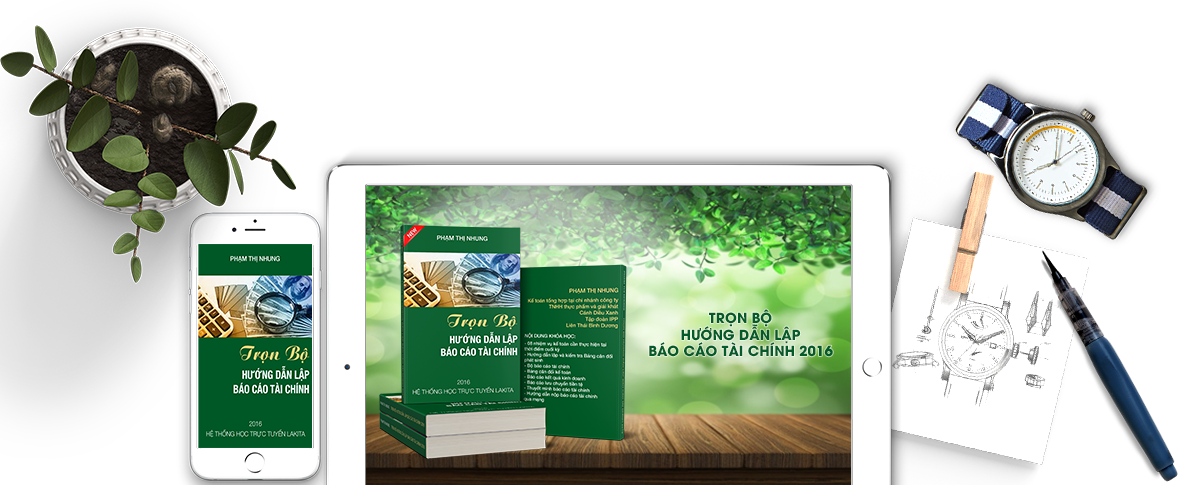
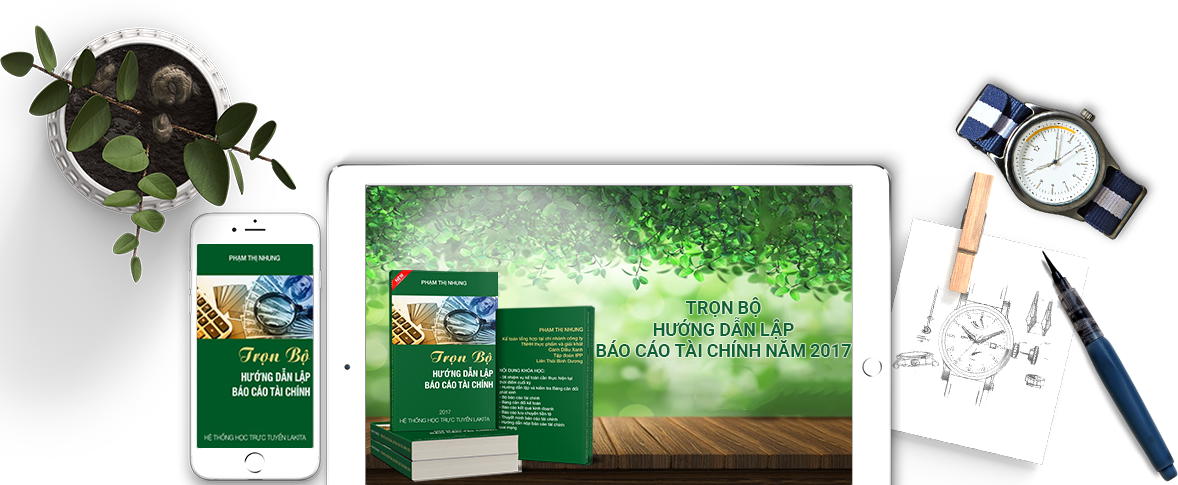
ok

Changed region(s): [[0.3056, 0.3711, 0.7334, 1.0], [0.1528, 0.5258, 0.275, 0.8351], [0.1528, 0.866, 0.275, 0.9278]]

diff --git a/application/views/landingpage/kt400/event.php b/application/views/landingpage/kt400/event.php
@@ -1,0 +1,244 @@
+<link href="<?php echo base_url() ?>plugin/flipclock/compiled/flipclock.css" rel="stylesheet" type="text/css"/>
+<script src="<?php echo base_url() ?>plugin/flipclock/compiled/flipclock.min.js" type="text/javascript"></script>
+<a data-toggle="modal" data-target="#modal_event" style="cursor: pointer" class="event2011 hidden-xs hidden-sm">
+    <img class="event2011 img-responsive" style="position: fixed; bottom: 0; z-index: 100000000; width: 100%;" alt="học excel cơ bản" title="học excel cơ bản" src="https://lakita.vn/styles/v2.0/img/event/banner.png?ver=<?php echo time();?>" />
+<!--    <span style="position: fixed; color: #fff; z-index: 1000000000000000; bottom: 13px; right: 40.2%; font-size: 62px;" class="num-day"> 0 <br></span>
+    <span style="position: fixed; color: #fff; z-index: 1000000000000000; bottom: 13px; right: 41.3%; font-size: 10px;"> NGÀY <br></span>
+    <span style="position: fixed; color: #fff; z-index: 1000000000000000; bottom: 13px; right: 32.9%; font-size: 62px;" class="num-hour"> 200 <br></span>
+    <span style="position: fixed; color: #fff; z-index: 1000000000000000; bottom: 13px; right: 34.9%; font-size: 10px;"> GIỜ <br></span>
+    <span style="position: fixed; color: #fff; z-index: 1000000000000000; bottom: 13px; right: 26.0%; font-size: 62px;" class="num-minute"> 300 <br></span>
+    <span style="position: fixed; color: #fff; z-index: 1000000000000000; bottom: 13px; right: 27.5%; font-size: 10px;"> PHÚT <br></span>
+    <span style="position: fixed; color: #fff; z-index: 1000000000000000; bottom: 13px; right: 19.4%; font-size: 62px;" class="num-second"> 400 <br></span>
+    <span style="position: fixed; color: #fff; z-index: 1000000000000000; bottom: 13px; right: 21.0%; font-size: 10px;"> GIÂY <br></span>-->
+    <div class="clock" style="bottom: 0px; position: fixed; z-index: 100000000;width: 46%; right: -10%"></div>
+</a>
+<script type="text/javascript">
+    var end = <?php echo $time_end_sale; ?>;
+    var now = <?php echo time(); ?>;
+    var distance = end - now;
+    if (distance <= 0) {
+        distance = 0;
+    }
+    var clock = $('.clock').FlipClock(distance, {
+        clockFace: 'DailyCounter',
+        countdown: true
+    });
+</script>
+
+<input type="hidden" id="base_url" value="<?php echo base_url(); ?>">
+
+<!-- Modal -->
+<div class="modal fade" id="modal_event" tabindex="-1" role="dialog" aria-labelledby="myModalLabel" style="font-family: OpenSans-Regular;z-index: 9999999999;">
+    <div class="modal-dialog" role="document" style="margin: 1em auto">
+        <div class="modal-content">
+            <div class="modal-header">
+                <button type="button" class="close" data-dismiss="modal" aria-label="Close"><span aria-hidden="true">&times;</span></button>
+                <h4 class="modal-title" id="myModalLabel">Đăng ký khóa học</h4>
+            </div>
+            <div class="modal-body">
+                <form id="form-event">
+                    <h3> Mời bạn nhập thông tin đăng ký</h3>
+                    <div class="form-group">
+                        <label for="exampleInputEmail1">Tên</label>
+                        <input type="text" class="form-control name_event" name="name" placeholder="Nhập họ tên...">
+                    </div>
+                    <div class="form-group">
+                        <label for="exampleInputPassword1">Số điện thoại</label>
+                        <input type="tel" class="form-control phone_event" name="phone" placeholder="Nhập số điện thoại...">
+                    </div>
+                    <div class="form-group">
+                        <label for="exampleInputEmail1">Địa chỉ</label>
+                        <input type="text" class="form-control address_event" name="address" placeholder="Nhập địa chỉ...">
+                    </div>
+                    <div class="form-group">
+                        <label for="exampleInputPassword1">Mời bạn chọn khóa học</label>
+                        <select class="form-control selectpicker course_code" name="course_code[]" id="course_code" multiple title="Chọn khóa học">
+                            <?php
+                            foreach ($courses_sale as $key => $cour) {
+                                ?>
+                                <option value="<?php echo $cour['course_code']; ?>">&nbsp;&nbsp;&nbsp;&nbsp;&nbsp;<?php echo $cour['name']; ?></option>
+                                <?php
+                            }
+                            ?>
+                            <!--                            <option value="cb300"> Combo mua 3 tặng 1 </option>
+                                                        <option value="cb200"> Combo 1 khóa excel và 1 khóa kế toán (tổng: 499K) </option>-->
+                        </select>
+                    </div>
+                    <!--
+                    <div class="form-group" id="select_cb300">
+                        <label for="exampleInputPassword1">Mời bạn chọn 3 khóa học trả tiền</label>
+                        <select class="form-control selectpicker course_code" name="course_code[]" multiple title="Chọn khóa học">
+                    <?php foreach ($courses_sale as $key => $cour) {
+                        ?>
+                                                            <option value="<?php echo $cour['course_code']; ?>">&nbsp;&nbsp;&nbsp;&nbsp;&nbsp;<?php echo $cour['name']; ?></option>
+                        <?php
+                    }
+                    ?>
+                        </select>
+                    </div>
+                    <div class="form-group" id="select_cb300_free">
+                        <label for="exampleInputPassword1">Mời bạn chọn khóa học miễn phí</label>
+                        <select class="form-control selectpicker course_code" name="course_code[]" title="Chọn khóa học">
+                    <?php
+                    foreach ($courses_sale as $key => $cour) {
+                        ?>
+                                                            <option value="<?php echo $cour['course_code'] . "_free"; ?>">&nbsp;&nbsp;&nbsp;&nbsp;&nbsp;<?php echo $cour['name']; ?></option>
+                        <?php
+                    }
+                    ?>
+                        </select>
+                    </div>
+                    <div class="form-group" id="select_cb200_kt">
+                        <label for="exampleInputPassword1">Mời bạn chọn khóa học kế toán</label>
+                        <select class="form-control selectpicker course_code" name="course_code[]" multiple title="Chọn khóa học">
+                    <?php
+//                            $courses_sale = array(
+//                                '6' => array('course_code' => 'KT200', 'name' => 'Làm chủ kiến thức và xử lý tình huống về hóa đơn'),
+//                                '8' => array('course_code' => 'KT210', 'name' => 'Trọn Bộ Kế Toán Thuế Từ A-Z'),
+//                                '9' => array('course_code' => 'KT110', 'name' => 'Cách Xác Định Chi Phí Hợp Lý, Công Cụ Bảo Vệ Tại Các Kỳ Thanh Tra, Quyết Toán Thuế'),
+//                                '11' => array('course_code' => 'KT130', 'name' => 'Hướng Dẫn Lập Báo Cáo Tài Chính Hợp Lý Và Phân Tích Các Chỉ Số Hỗ Trợ Dự Thầu, Vay Vốn Ngân Hàng'),
+//                                '12' => array('course_code' => 'KT800', 'name' => 'Kỹ thuật quyết toán thuế, công tác chuẩn bị cho thanh tra thuế, tối ưu thuế'),
+//                            );
+                    foreach ($courses_sale as $key => $cour) {
+                        ?>
+                                                            <option value="<?php echo $cour['course_code']; ?>">&nbsp;&nbsp;&nbsp;&nbsp;&nbsp;<?php echo $cour['name']; ?></option>
+                        <?php
+                    }
+                    ?>
+                        </select>
+                    </div>
+                    <div class="form-group" id="select_cb200_ex">
+                        <label for="exampleInputPassword1">Mời bạn chọn khóa học excel</label>
+                        <select class="form-control selectpicker course_code" name="course_code[]" title="Chọn khóa học">
+                    <?php
+//                            $courses_sale = array(
+//                                '1' => array('course_code' => 'E100', 'name' => 'Bí quyết làm chủ Excel năm 2017'),
+//                                '2' => array('course_code' => 'E200', 'name' => '99 tuyệt chiêu Excel dành cho người đi làm'),
+//                                '3' => array('course_code' => 'E300', 'name' => 'Excel từ cơ bản tới chuyên sâu dành riêng cho kế toán'),
+//                                '4' => array('course_code' => 'E400', 'name' => 'Excel từ A-Z'),
+//                            );
+//                            foreach ($courses_sale as $key => $cour) {
+//                                
+                    ?>
+                                <option value="<?php echo $cour['course_code']; ?>">&nbsp;&nbsp;&nbsp;&nbsp;&nbsp;<?php echo $cour['name']; ?></option>
+                    <?php
+//                            }
+                    ?>
+                        </select>
+                    </div> -->
+                    <div class="form-group" id="price_combo">
+                        <label id="test">Tạm tính : 0 vnđ</label>
+                    </div>
+            </div>
+            <div class="modal-footer">
+                <button type="button" class="btn btn-default close_modal" data-dismiss="modal">Đóng</button>
+                <button type="button" class="btn btn-success confirm_event">Xác nhận</button>
+            </div>
+            </form>
+        </div>
+    </div>
+</div>
+
+<script>
+    $(function () {
+        var a = <?php echo json_encode($courses_sale); ?>;
+        console.log(a);
+        var b = new Array();
+
+        a.forEach(function (element) {
+            b[element["course_code"]] = [element["price_sale"]];
+        });
+
+        $('.course_code').change(function () {
+            var c = Number(0);
+            var course_selected = $('.course_code').selectpicker('val');
+            course_selected.forEach(function (element) {
+                c += Number(b[element][0]);
+            });
+            $("label").remove("#test");
+            $('#price_combo').html('<label id="test">Tạm tính : ' + c.toString().replace(/(\d)(?=(\d{3})+(?!\d))/g, "$1.") + ' vnđ</label>');
+        });
+
+        $.fn.digits = function () {
+            return this.each(function () {
+                $(this).text($(this).text().replace(/(\d)(?=(\d\d\d)+(?!\d))/g, "$1,"));
+            })
+        };
+
+
+        /*$("#select_cb300, #select_cb300_free, #select_cb200_kt, #select_cb200_ex").hide();
+         $('.course_code').change(function () {
+         var cb300 = $("#course_code").val();
+         if (cb300.length == 1 && cb300[0] == "cb300") {
+         $("#select_cb300, #select_cb300_free").show();
+         } else {
+         $("#select_cb300, #select_cb300_free").hide();
+         }
+         if (cb300.length == 1 && cb300[0] == "cb200") {
+         $("#select_cb200_kt, #select_cb200_ex").show();
+         $('#price_combo').html('<label id="test">Tạm tính : 499.000 vnđ</label>');
+         } else {
+         $("#select_cb200_kt, #select_cb200_ex").hide();
+         $.ajax({
+         url: "<?php echo base_url(); ?>event/price_combo",
+         type: "POST",
+         data: $("#form-event").serialize(),
+         success: function (data) {
+         console.log(data);
+         $("label").remove("#test");
+         $('#price_combo').html('<label id="test">Tạm tính : ' + data + ' vnđ</label>');
+         }
+         });
+         }
+         });*/
+
+
+        $('.confirm_event').click(function () {
+            var cb300 = $("#course_code").val();
+            if ($('.name_event').val() == '' || $('.phone_event').val() == '' || $('#course_code').val() == '' || $('.address_event').val() == '') {
+                alert('Bạn hãy nhập đầy đủ thông tin !!');
+                return;
+            } else if ((cb300.length == 1 && cb300[0] == "cb300")
+                    && ($("#select_cb300 select").val().length != 3 || $("#select_cb300_free select").val() == '')) {
+                alert('Mời bạn chọn đúng 3 khóa học combo và 1 khóa miễn phí !!');
+                return;
+            } else {
+                $.ajax({
+                    url: "<?php echo base_url(); ?>event/combo",
+                    type: "POST",
+                    data: $("#form-event").serialize(),
+                    beforeSend: function ()
+                    {
+                        $(".popup-wrapper").show();
+                    },
+                    success: function (data) {
+                        console.log(data);
+                        if (data == 1) {
+                            alert('Cảm ơn bạn đã tham gia chương trình khuyến mại, nhân viên CSKH sẽ liên hệ để xác nhận đăng ký cho bạn!');
+                            $('#modal_event').modal('hide');
+                        }
+                    },
+                    complete: function () {
+                        $(".popup-wrapper").hide();
+                        $('#modal_event').modal('hide');
+                    }
+                });
+            }
+        });
+    });
+</script>
+
+
+<div class="modal fade" id="modal2_9" tabindex="-1" role="dialog" aria-labelledby="myModalLabel" aria-hidden="true">
+    <div class="modal-dialog">
+        <div id="popup_29" data-toggle="modal" data-target="#myModal" class="modal-content" 
+             style="cursor: pointer; background-size: contain; width: 506px;">
+            <button type="button" class="close" data-dismiss="modal" style="background-color: #fff;position: absolute; right: 0;">
+                <span aria-hidden="true">&times;</span>
+                <span class="sr-only">Close</span>
+            </button>
+            <img style="width: 100%" src="https://lakita.vn/styles/v2.0/img/event/popup.png?ver=<?php echo time();?>">
+        </div>
+    </div>
+</div>
+

diff --git a/application/views/landingpage/kt4002/index.php b/application/views/landingpage/kt4002/index.php
@@ -1037,7 +1037,7 @@ $rs = json_decode($result);
             <div class="container">
                 <div class="row">
                     <div class="col-md-8 col-md-offset-2 col-xs-12">
-                        <div class="fb-comments" data-href="http://lapbctc2016499.lakita.vn" 
+                        <div class="fb-comments" data-href="https://lakita.vn/tron-bo-lap-bao-cao-tai-chinh-2017.html" 
                              data-width="100%" data-numposts="10" data-order-by="reverse_time"></div>
                     </div>
                 </div>

diff --git a/application/controllers/Player.php b/application/controllers/Player.php
@@ -25,7 +25,7 @@ class Player extends MY_Controller {
         $is_trial_view = $this->session->tempdata('is_trial_view');
 
         if (in_array($student_id, array('573', '4117', '4514', '5234',
-                    '5387', '5391', '5528', '5755', '5770', '6784', '15566', '7572', '3630', '155532')) || 
+                    '5387', '5391', '5528', '5755', '5770', '6784', '15566', '7572', '3630')) || 
 
                 (isset($is_trial_view) && $is_trial_view == 'yes')) {
             echo 'https://lakita.vn/' . $primary_video[0]['video_file'];

diff --git a/application/views/home/index.php b/application/views/home/index.php
@@ -296,7 +296,5 @@ if ($this->agent->is_mobile()) {
             }
         });
     });
-
-   
 </script>
 
